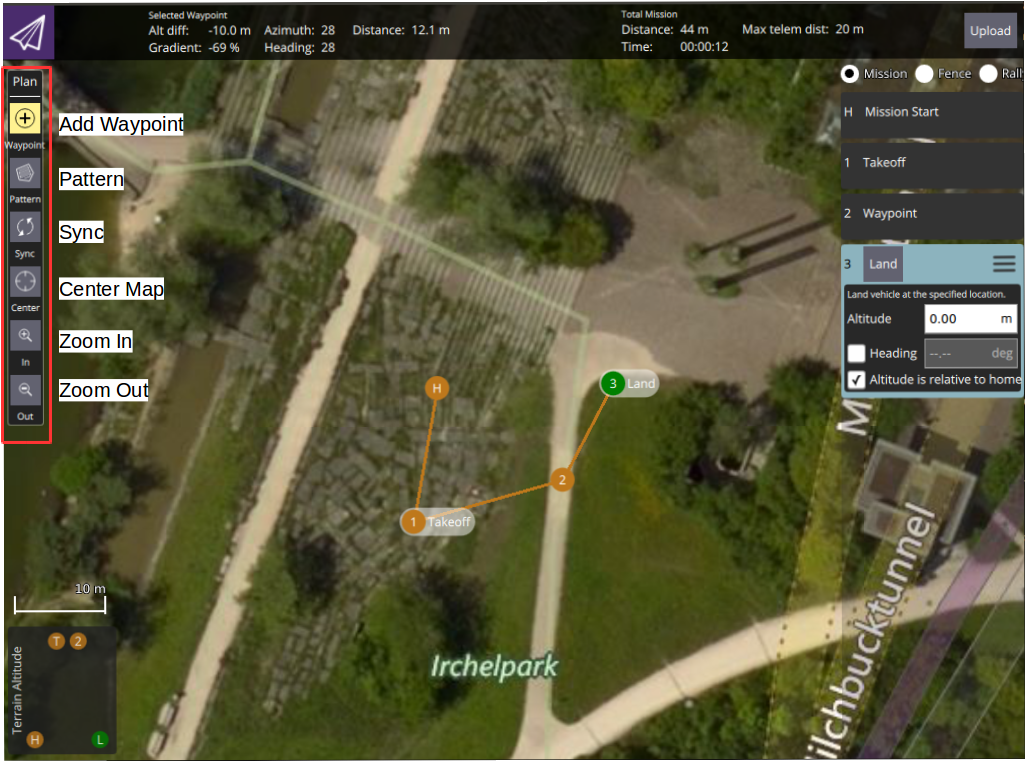
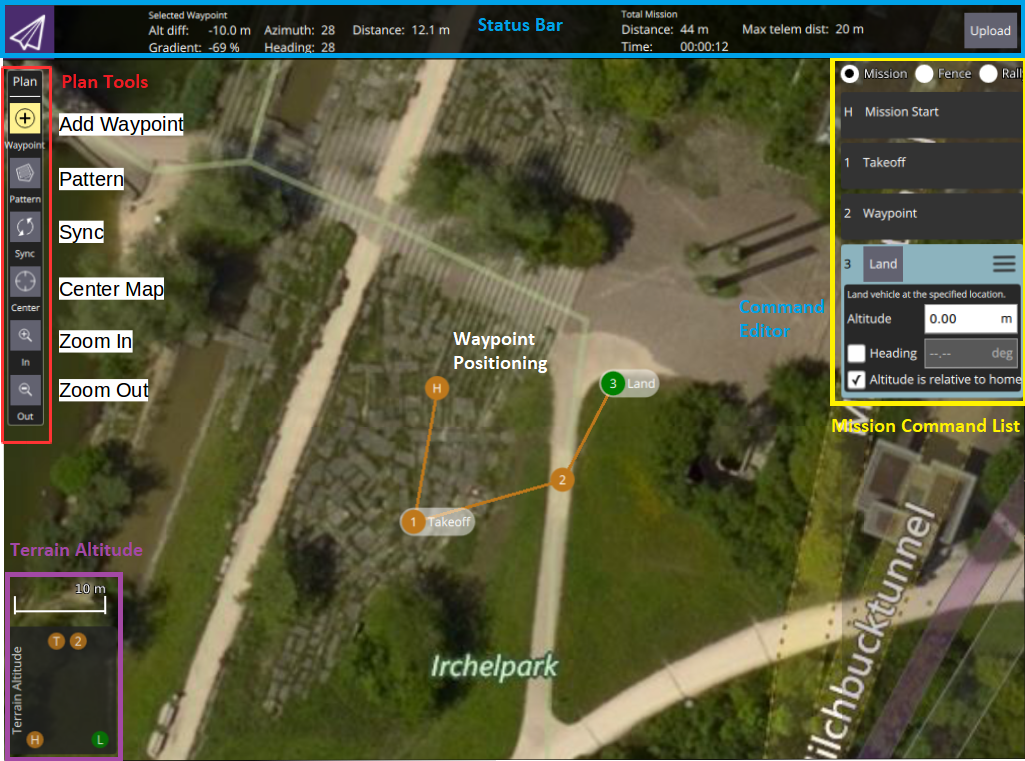
Reorganise the plan page

diff --git a/en/PlanView/PlanView.md b/en/PlanView/PlanView.md
@@ -1,98 +1,140 @@
 # Plan View
 
-![](../../images/plan/PlanView.png)
+The *Plan View* is used to plan autonomous missions for your vehicle, and upload them to the vehicle. It is also use to configure the [GeoFence](PlanGeoFence.md) and [Rally Points](PlanRallyPoints.md) if these are supported by the firmware.
 
-The *Plan View* is used to plan autonomous missions for your Vehicle. Once the mission is planned and sent to the vehicle, you switch to the [*Fly View*](../FlyView/FlyView.md) to fly the mission.
+![Plan View](../../images/plan/PlanView.png)
 
-If your Vehicle supports a [GeoFence](PlanGeoFence.md) or [Rally Points](PlanRallyPoints.md) you can also set those up from the *Plan View*.
+Once the mission is planned and sent to the vehicle, you switch to the [Fly View](../FlyView/FlyView.md) to fly the mission.
 
-The image above shows a simple mission which starts with a takeoff at the home position (H), flies through three waypoints and then lands on the 
-last waypoint (i.e. waypoint 3).
 
-The steps to creating a missions are:
+## Planning a Mission
+
+The image above shows a simple mission plan that starts with a takeoff at the home position (H), 
+flies through three waypoints,  and then lands on the last waypoint (i.e. waypoint 3).
+
+At very high level, the steps to create a mission are:
 
 1. Change to *Plan View*.
 2. Add waypoints or commands to the mission and edit as needed.
 3. Upload the mission to the vehicle.
-4. Change to *Fly View* and fly your mission.
+4. Change to *Fly View* and fly the mission.
 
-## Plan Tools
-On the left edge of the screen you will see the Plan Tools as marked in red in the image above. 
+The following sections explain some of the details in the view.
 
- > **Note** **Center map**, **Zoom In**, **Zoom Out** are just map visualisation tools that help user view the *Plan view* map clearly while 
- planning missions (they don't affect the mission commands sent to the vehicle in any way).
+
+## UI Overview
+
+The main elements of the UI are shown in the screenshot at the top of the page.
+
+
+### Map
+
+The central area of the view is occupied by a map. This displays the numbered indicators for the current mission, including the [Planned Home](#planned_home).
+Click on the indicators to select them (for editing) or drag them around to reposition them. 
+
+### Status Bar
+
+At the top of the *Plan View* you will see the Statusbar, which shows information for the currently selected waypoint relative to the previous waypoint, as well as statistics for the entire mission. This also has a button for uploading missions to the vehicle.
+
+![Status Bar](../../images/plan/PlanToolbar.png)
+
+For example, above we see altitude and position difference from previous waypoint on the left, and an estimate of the horizontal distance and time taken by the total mission on teh right. `Max telem dist` is the distance between the Planned Home position (where your GCS is expected to be) and the furthest waypoint.
+
+### Plan Toolbar
+
+The Plan Toolbar is displayed on the left side of the screen (marked in red with white labels in the image above). It contains the [plan tools](#plan_tools) for creating and managing missions.
+
+### Mission Command List/Overlay
+
+The Mission Command List is displayed on the right hand side. This contains the list of mission items (select items to edit).
+
+More information about mission editors is [provided below](#mission_command_list).
+
+
+### Terrain Altitude Overlay
+
+The terrain altitude overlay (bottom left of map) shows the relative altitude of each mission command.
+
+![Mission Height display](../../images/plan/MissionHeightDisplay.png)
+
+
+## Plan Tools {#plan_tools}
+
+The plan tools are used for adding individual waypoints, easing mission creation for complicated geometries, uploading/downloading/saving/restoring missions, and for navigating the map. The main tools are described below.
+
+> **Note** **Center map**, **Zoom In**, **Zoom Out** tools help users better view and navigate the *Plan view* map (they don't affect the mission commands sent to the vehicle).
 
 
 ### Add Waypoints
-Click on the **Add Waypoint** tool to activate it. While active, clicking on the map will add new mission waypoint at the clicked location. The 
-tool will stay active until you select it again. Once you have added a waypoint, you can select it and drag it around to change its position.
 
-### Actual vs Planned Home Position
-Home position is the position the vehicle will return to and land on when in Return (to Launch/Home) mode. The home position shown in *Plan View*
-is the "Planned Home Position". It is not the actual home position which will be used when flying the mission. It only helps you simulate the vehicle's home position while planning a mission. 
+Click on the **Add Waypoint** tool to activate it. While active, clicking on the map will add new mission waypoint at the clicked location. 
+The tool will stay active until you select it again. 
+Once you have added a waypoint, you can select it and drag it around to change its position.
 
-You should place the planned home position where you roughly plan to start (takeoff) the vehicle from. This allows QGC to estimate mission times and to draw waypoint lines correctly to the home position. When you go out on the field and start the mission, the autopilot then replaces the mission's planned home position with the actual takeoff position as its home position. This actual home position can then be seen in the *Fly View*.
-
-<img src="../../images/plan/MissionSettingsPlannedHomePositionSection.jpg" style="width: 300px;"/>
 
 ### Sync
-The Sync tools allows you to move Missions back and forth to your Vehicle or a file. *Before you fly a mission you must be sure to send your 
-Mission to your vehicle.* The tool will change to have an "!" within it to indicate that you have changes to your Mission which you have not sent 
-to your vehicle. 
 
-The Sync tool provides the following functionality:
+The *Sync tools* are used to move missions between the ground station and vehicle, and to save/restore them from files. 
+The tool displays an `!` to indicate that there are mission changes that you have not sent to the vehicle.
 
-* Upload (Send to Vehicle)
-* Download (Load from Vehicle)
+> **Note** Before you fly a mission you must upload it to the vehicle.
+
+The *Sync tools* provides the following functionality:
+
+* Upload (Send to vehicle)
+* Download (Load from vehicle)
 * Save to File
 * Load from File
 * Remove All (removes all mission waypoints from *Plan view* and from vehicle)
 
+
 ### Pattern
 
-[Pattern](Pattern.md) allows you to fly a complex pattern.
+The [Pattern](Pattern.md) tool simplifies the creation of missions for flying complex geometries, including [surveys](../PlanView/Survey.md) and [structure scans](../PlanView/StructureScan.md).
 
-## Mission Command List
 
-On the right edge of the display is the list of mission commands for this mission. You can click on one of these to edit the values for the 
-item. 
-Above are a set of options to switch between editing the Mission, GeoFence and Rally Points.
+## Planned Home Position {#planned_home}
+
+The *Planned Home* shown in *Plan View* is used to set the approximate start point when planning a mission (i.e. when a vehicle may not even be connected to a vehicle). 
+It is used by QGC to estimate mission times and to draw waypoint lines.
+
+![Planned Home Position](../../images/plan/MissionSettingsPlannedHome.jpg)
+
+You should move/drag the planned home position to roughly the location where you plan to takeoff.
+
+> **Tip** The Fly View displays the *actual* home position set by the vehicle firmware when it arms (this where the vehicle will return in Return/RTL mode). 
+
+<img src="../../images/plan/MissionSettingsPlannedHomePositionSection.jpg" style="width: 300px;"/>
+
+
+## Mission Command List {#mission_command_list}
+
+Mission commands for the current mission are listed on the right side of the view. You can select individual items to edit their values. 
+Above are a set of options to switch between editing the mission, GeoFence and rally points.
+
 
 ### Mission Command Editors
 
-Click on a mission command to show its editor which allows you to specify the values for the command. You can also change the type of the 
-command by clicking on the command name, "Waypoint" in this example. This allows you to pick from the set up available commands to build your 
-mission. To view the list of all commands, choose "All commands" from "Category" drop down menu. To the right of the command name is a menu you 
-can open by clicking. This menu provides you access to additional options such as Insert and Delete.
+Click on a mission command in the list to display its editor (in which you can set/change the command attributes).
 
-> **Note** The list of available commands will depend on firmware and vehicle type. Examples may include Waypoint, Start image capture, Jump to 
-item (to repeat mission)  and other commands shown below:
+You can change the type of the command by clicking on the command name (for example: "Waypoint"). 
+This will display the *Select Mission Command* dialog shown below. To the right of each command name is a menu that you can click to access to additional options such as *Insert* and *Delete*.
 
 <img src="../../images/plan/MissionCommands.png" style="width: 200px;"/>
 
+The list of commands displayed in the dialog can be filtered by category. For example, to see all commands, choose **All commands** from **Category** drop down menu. 
+
+> **Note** The list of available commands will depend on firmware and vehicle type. Examples may include: Waypoint, Start image capture, Jump to item (to repeat mission) and other commands.
+
+
 ### Mission Settings
-The Mission Settings panel allows you to specify values which apply to the entire mission, or settings you want to control right at the 
-beginning of a mission. This is the first item in the mission list on the right of the screen. For example, you can change the altitude for all 
-mission waypoints to the value you set in "Waypoint alt".
+
+The *Mission Settings* (Mission Start) panel is the first item in the mission command list (right of the screen). 
+This allows you to specify default values for new waypoints/command, or to reapply these values to all waypoints. 
+For example, you can change the altitude for all mission waypoints to the value you set in *Waypoint alt*.
 
 <img src="../../images/plan/MissionSettings.png" style="width: 200px;"/>
 
-
-## Mission Display
-
-In the center of the map you will see a visualization of your current mission. You can click on the indicators to select them and then you can 
-also drag them around to reposition them. 
-
-![](../../images/plan/PlanToolbar.png)
-
-At the top of the *Plan View* you will see the Plan Toolbar which shows information for the currently selected waypoint relative to the previous 
-waypoint as well as statistics for the entire mission. For e.g. to the left you will find altitude difference and distance from the previous 
-waypoint, whereas to the right you will find an estimate of the horizontal distance and time taken by the total mission. "Max telem dist" is the 
-distance between the Planned Home position (where your GCS is expected to be) and the furthest waypoint.
-
-![](../../images/plan/MissionHeightDisplay.png)
-
-At the bottom of the map you will see a representation of the height differences between your mission commands.
 
 
 ## Further Info

diff --git a/en/PlanView/StructureScan.md b/en/PlanView/StructureScan.md
@@ -4,9 +4,9 @@ A *Structure Scan* allows you to create a grid flight pattern that captures imag
 
 Structure Scan is available to insert into a mission from the *Pattern* tool.
 
-**NOTE** **This feature requires new firmware support in both PX4 and Ardupilot. At this point the QGC release is a bit ahead of the firmware support releases. PX4 support should be available within a few days. ArduPilot support soon thereafter.**
+> **Warning** **This feature requires new firmware support in both PX4 and ArduPilot.** At this point the QGC release is a bit ahead of the firmware support releases. PX4 support should be available within a few days. ArduPilot support soon thereafter.
 
-![](../../images/plan/StructureScan.jpg)
+![Structure Scan](../../images/plan/StructureScan.jpg)
 
 In the diagram green is used to show the polygon that represents the structure. In white you can see the flight path for the vehicle. You can also fly circular structure scans by change the polygon to a circle using the *center tool*.
 
